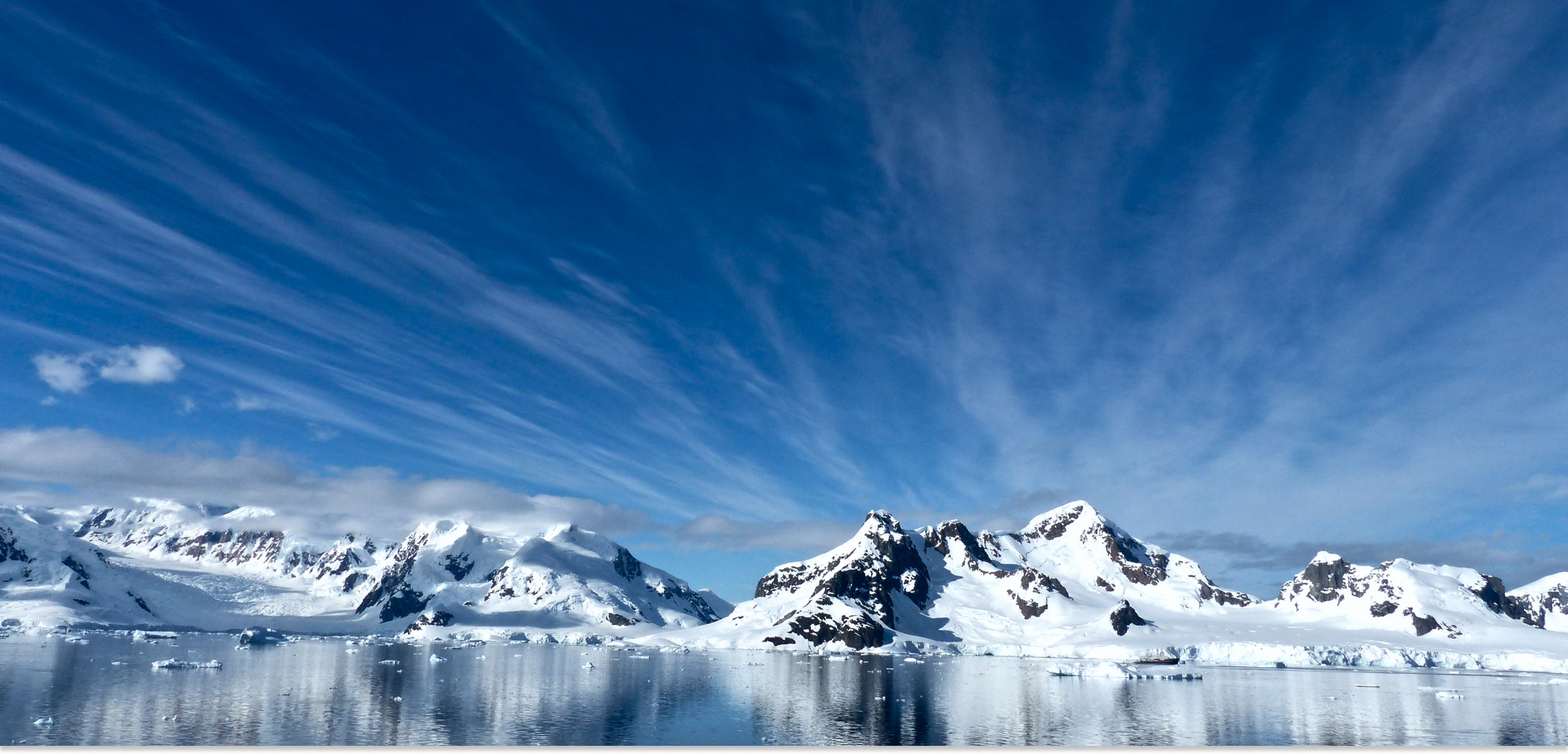
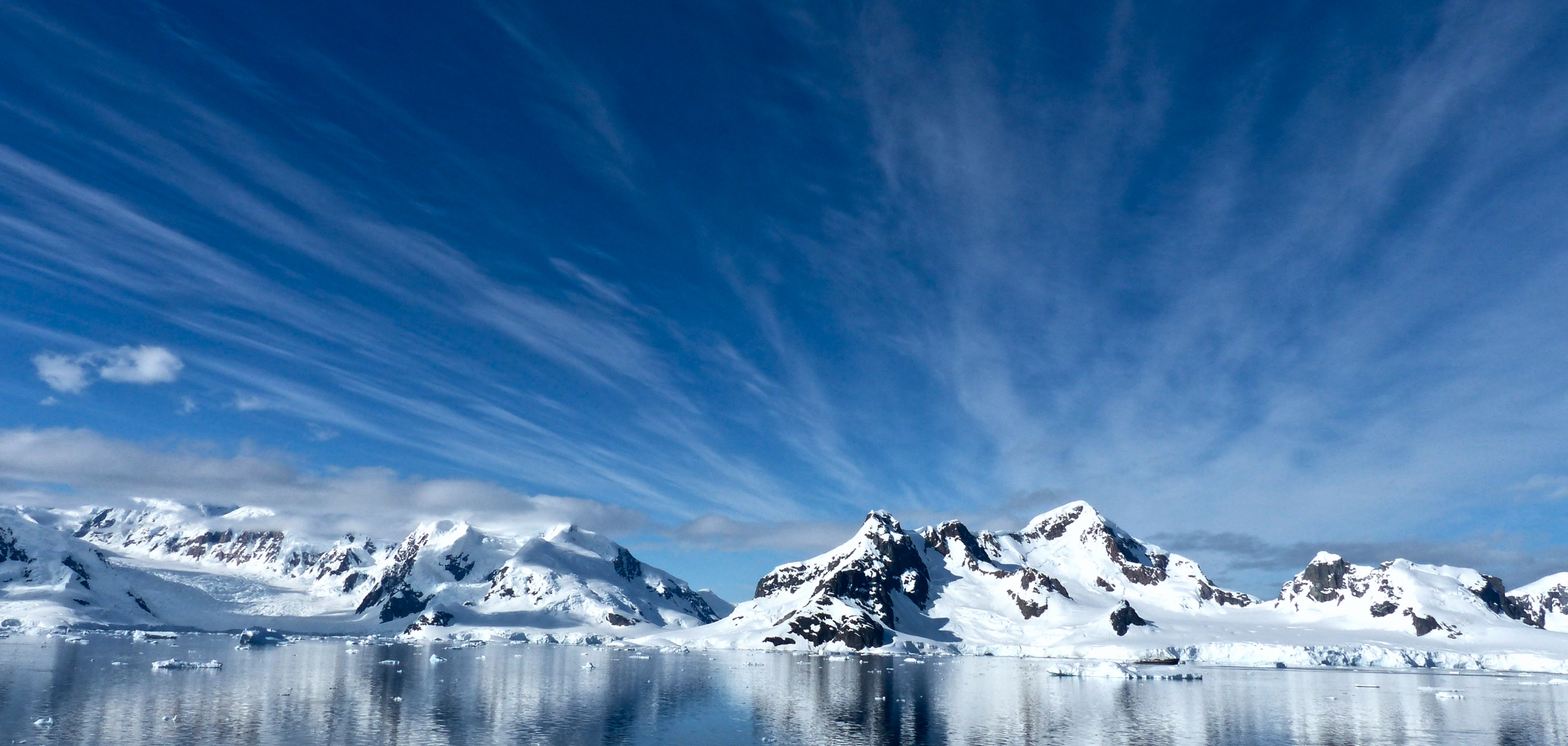
123 (#4)

diff --git a/source/index.html b/source/index.html
@@ -49,6 +49,25 @@
             <p>Волшебный мир айсбергов и пингвинов</p>
           </div>
         </div>
+        <div class="intro__ibg">
+          <img src="img/intro-bg-desktop.jpg" alt="icebergs">
+        </div>
+
+      </section>
+      <section class="about">
+        <div class="container about__container">
+          <div class="about__text">
+            <h2>Путешествие на край Земли</h2>
+            <p>Это волшебное путешествие поможет вам познакомиться поближе с удивительным миром Антарктики. Наш круизный
+              лайнер отвезет
+              вас на край Земли, где вы сможете увидеть: ледяные айсберги, несколько видов пингвинов, китов, морских
+              котиков и многое
+              другое.</p>
+          </div>
+          <div class="about__img">
+            <img src="img/penguins.jpg" alt="three happy penguins are looking in camera" width="560" height="301">
+          </div>
+        </div>
       </section>
     </main>
     <footer>

diff --git a/source/sass/blocks/intro.scss b/source/sass/blocks/intro.scss
@@ -1,11 +1,18 @@
 .intro {
+  position: relative;
+  padding: 10px 0;
   margin-top: -108px;
-  padding: 235px 0 260px;
   color: $color-text-light;
-  background: $color-bg-dark url(../../img/intro-bg-desktop.jpg)center / cover no-repeat;
+  background: $color-bg-dark;
+
+  @include vp-1023 {
+    box-shadow: none;
+  }
 
   .intro__text {
     padding-left: 95px;
+    position: relative;
+    z-index: 10;
 
     @include vp-1023 {
       padding-left: 0;
@@ -44,4 +51,19 @@
     }
   }
 
+}
+
+.intro__container {
+  position: relative;
+  margin-top: 260px;
+  margin-bottom: 200px;
+}
+
+.intro__ibg img {
+  position: absolute;
+  top: 0;
+  left: 0;
+  width: 100%;
+  height: 100%;
+  object-fit: cover;
 }

diff --git a/source/sass/blocks/about.scss b/source/sass/blocks/about.scss
@@ -1,0 +1,28 @@
+.about {
+  padding: 120px 0 145px;
+}
+
+
+
+.about__container {
+  display: grid;
+  grid-template-columns: repeat(2, 1fr);
+  column-gap: 40px;
+}
+
+.about__text {
+  padding-top: 30px;
+
+  h2 {
+    font-size: 28px;
+    font-weight: 600;
+    line-height: 42px;
+  }
+
+  p {
+    font-size: 16px;
+    line-height: 24px;
+  }
+}
+
+.about__img img {}

diff --git a/source/sass/style.scss b/source/sass/style.scss
@@ -22,6 +22,7 @@
 @import "blocks/modal";
 @import "blocks/header";
 @import "blocks/intro";
+@import "blocks/about";
 
 // ---------------------------------
 

diff --git a/source/sass/blocks/header.scss b/source/sass/blocks/header.scss
@@ -11,6 +11,9 @@
   transition: all 0.5s ease 0s;
   z-index: 5;
 
+
+
+
   @include vp-1023 {
     width: 38px;
     height: 20px;
